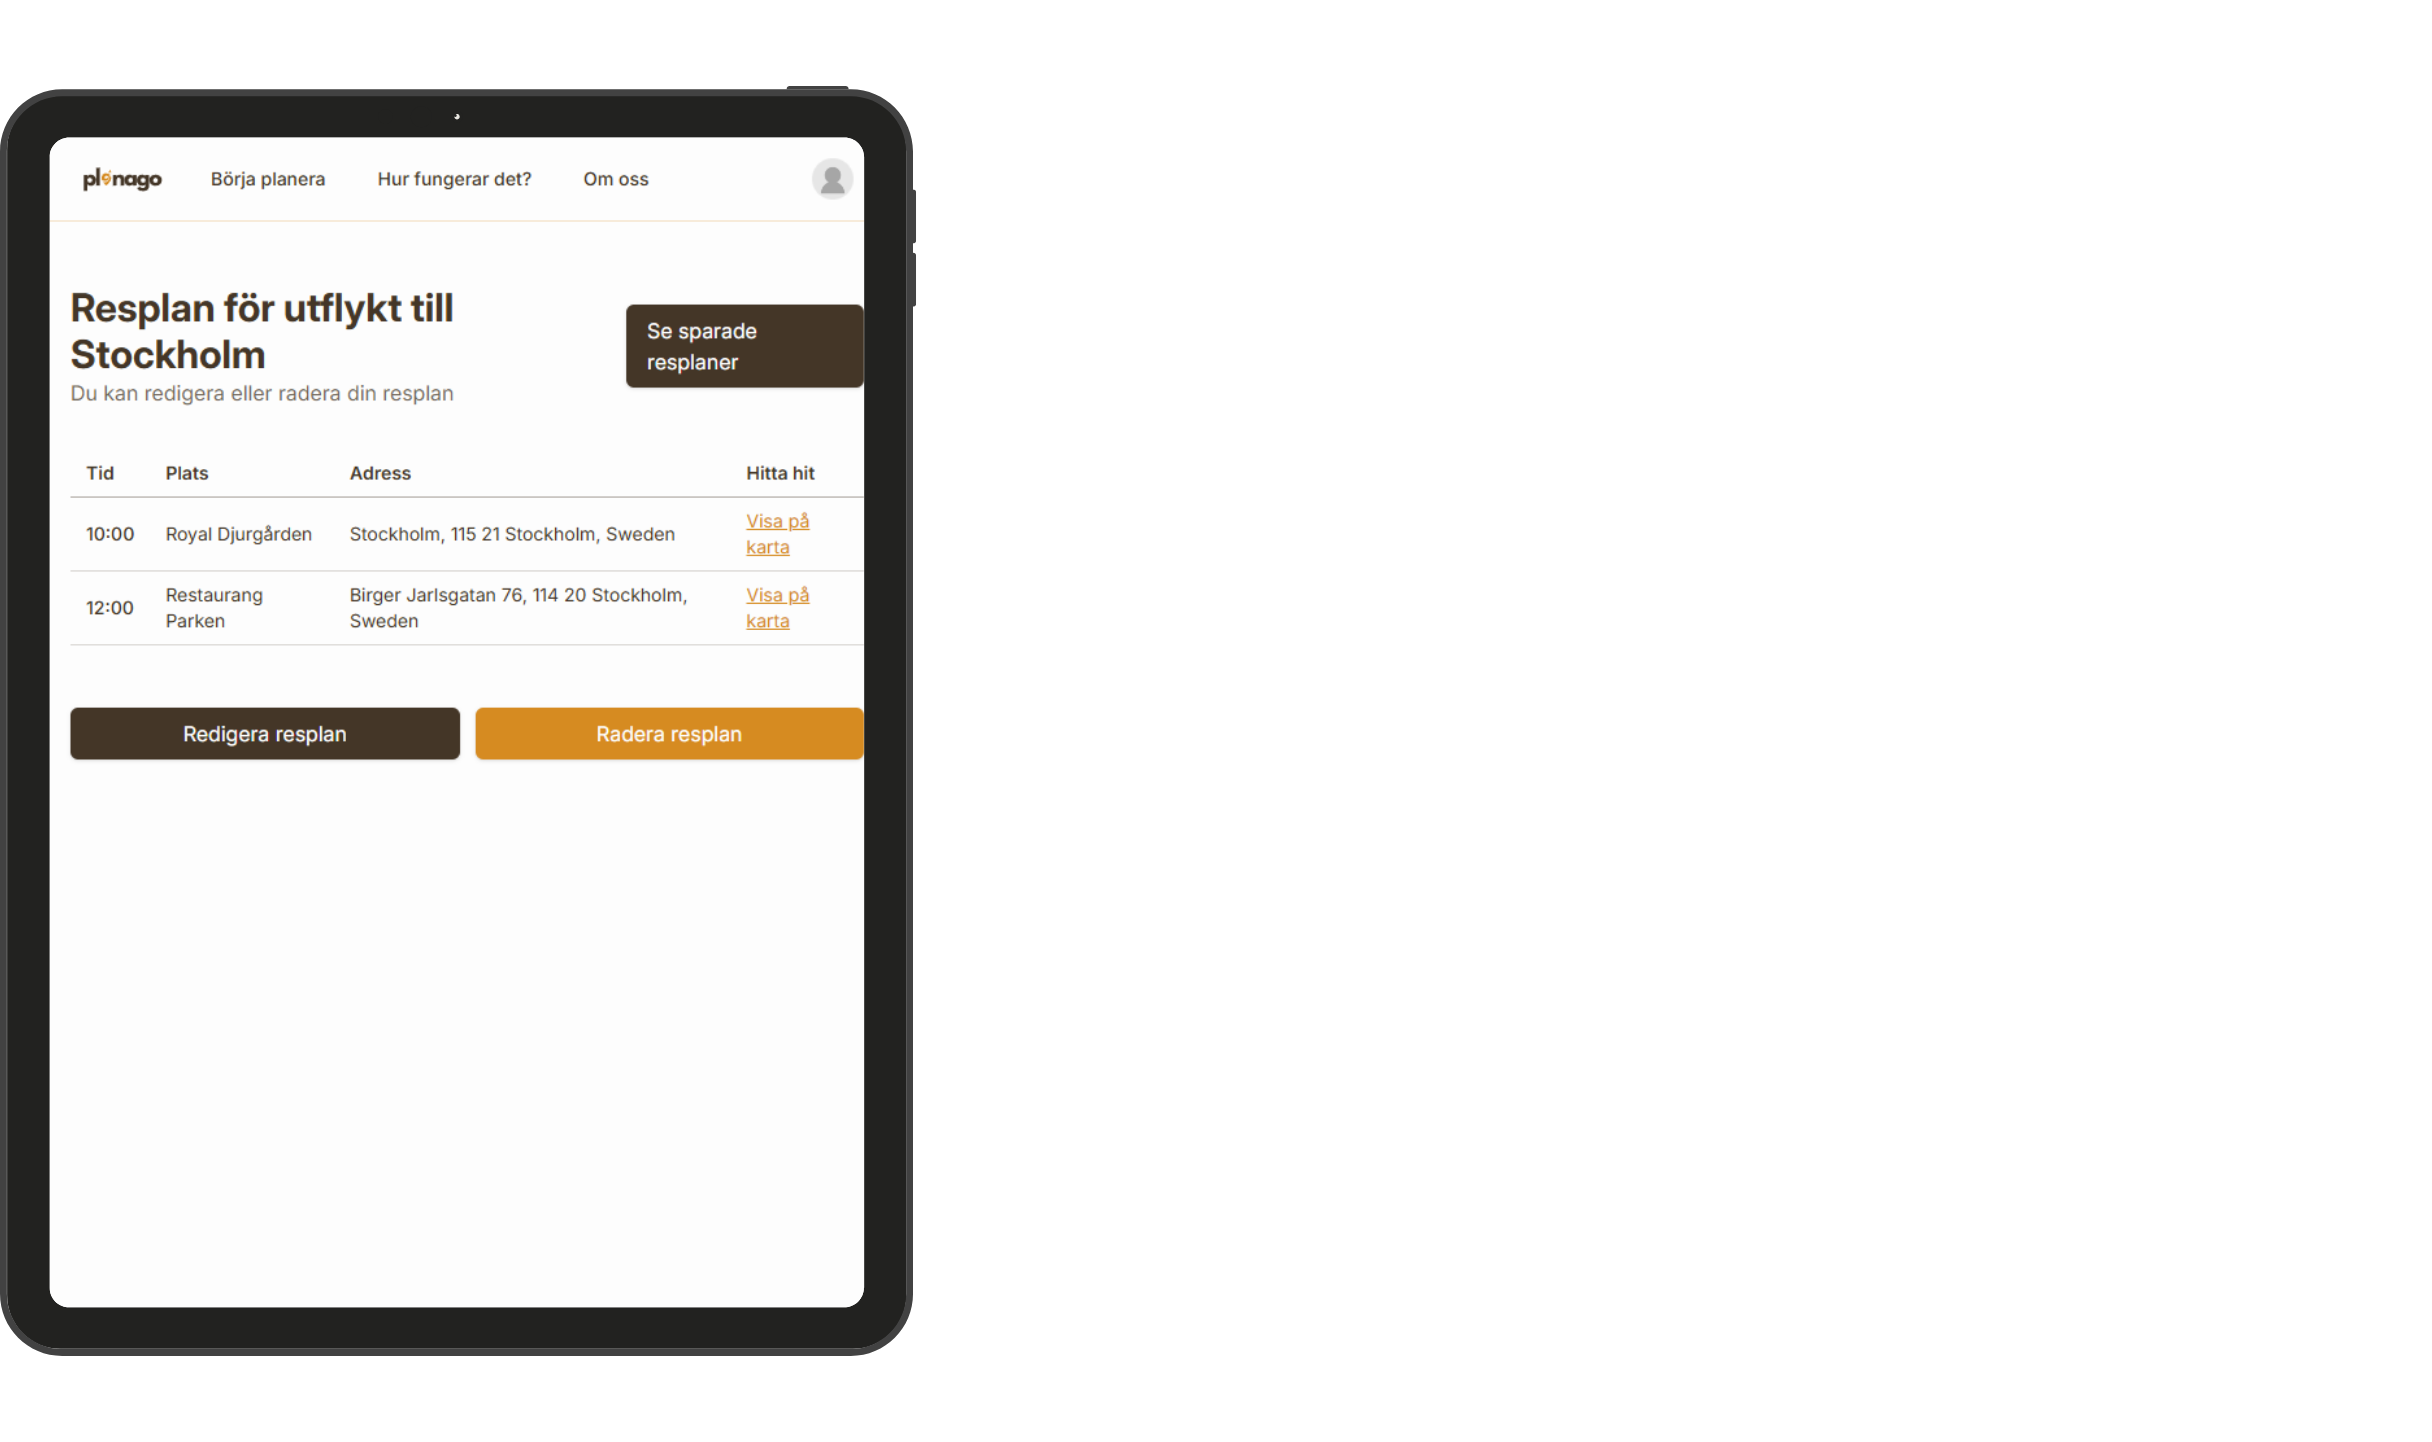
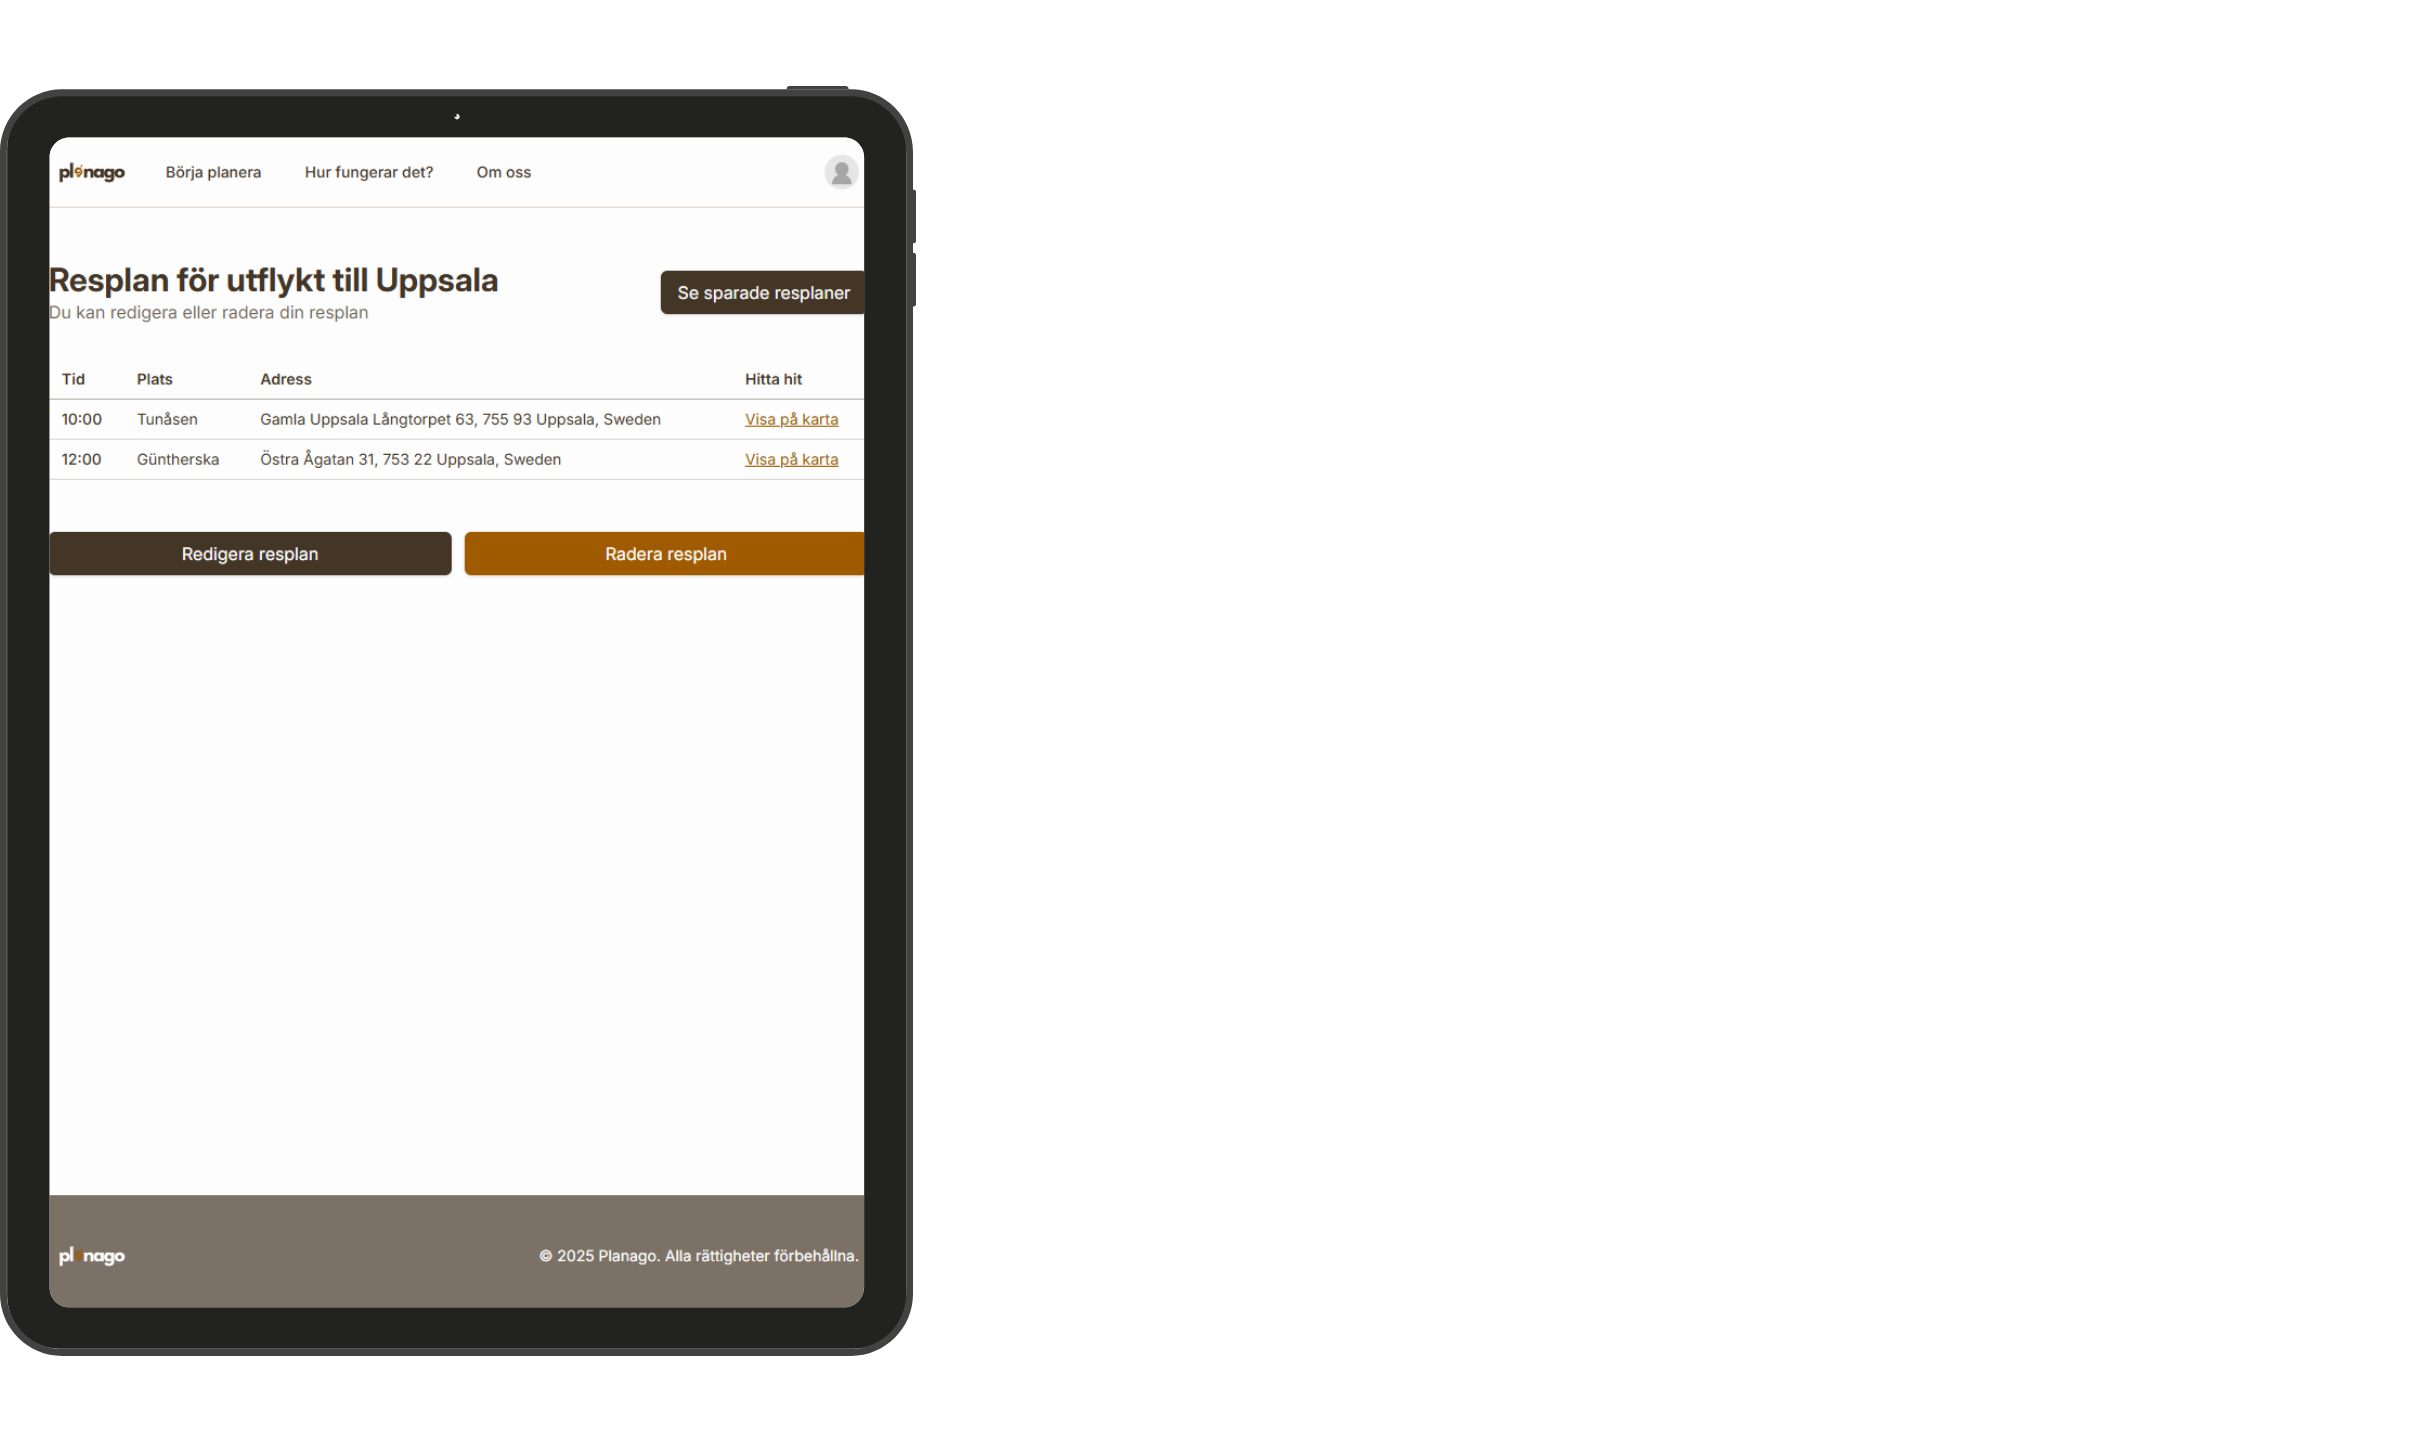
EP-27 <changes after lighthouse check for accessibility>

diff --git a/planago/app/routes/AccountSettings.tsx b/planago/app/routes/AccountSettings.tsx
@@ -86,7 +86,7 @@ export default function AccountSettings({
   }, [actionData]);
 
   return (
-    <div className="min-h-screen bg-background px-4 py-12">
+    <main className="min-h-screen bg-background px-4 py-12">
       <div className="mx-auto max-w-5xl space-y-12">
         {actionData?.error && (
           <div className="mt-6 p-3 rounded bg-accent/10 text-accent text-sm sm:text-base">
@@ -116,21 +116,30 @@ export default function AccountSettings({
             <Form method="post" className="w-full space-y-4">
               <input type="hidden" name="intent" value="updateName" />
               <div>
-                <label className="block text-sm font-medium text-primary">
+                <label
+                  htmlFor="name"
+                  className="block text-sm font-medium text-primary"
+                >
                   Namn
                 </label>
                 <input
+                  id="name"
                   type="text"
                   name="name"
                   defaultValue={user.name}
                   className="mt-1 w-full rounded-md border border-primary/30 px-3 py-2"
                 />
               </div>
+
               <div>
-                <label className="block text-sm font-medium text-primary">
+                <label
+                  htmlFor="email"
+                  className="block text-sm font-medium text-primary"
+                >
                   E‑postadress
                 </label>
                 <input
+                  id="email"
                   type="email"
                   value={user.email}
                   className="mt-1 w-full rounded-md border border-primary/30 px-3 py-2"
@@ -278,6 +287,6 @@ export default function AccountSettings({
           </div>
         </div>
       </div>
-    </div>
+    </main>
   );
 }

diff --git a/planago/app/routes/HowToUse.tsx b/planago/app/routes/HowToUse.tsx
@@ -2,7 +2,7 @@ import img from "../assets/how-to-use-img.png";
 
 export default function HowToUse() {
   return (
-    <div className="min-h-screen bg-background flex flex-col justify-center items-center px-4 py-12">
+    <main className="min-h-screen bg-background flex flex-col justify-center items-center px-4 py-12">
       <div className="mx-auto max-w-7xl px-6 lg:px-8">
         <div className="mx-auto grid max-w-2xl grid-cols-1 gap-x-8 gap-y-16 sm:gap-y-20 lg:mx-0 lg:max-w-none lg:grid-cols-2">
           <div className="lg:pt-4 lg:pr-8">
@@ -91,6 +91,6 @@ export default function HowToUse() {
           </div>
         </div>
       </div>
-    </div>
+    </main>
   );
 }

diff --git a/planago/app/routes/About.tsx b/planago/app/routes/About.tsx
@@ -2,7 +2,7 @@ import img from "../assets/about-img.png";
 
 export default function About() {
   return (
-    <div className="min-h-screen bg-background flex flex-col justify-center items-center px-4 py-12">
+    <main className="min-h-screen bg-background flex flex-col justify-center items-center px-4 py-12">
       <div className="mx-auto max-w-7xl px-6 lg:px-8">
         <div className="mx-auto grid max-w-2xl grid-cols-1 gap-x-8 gap-y-16 sm:gap-y-20 lg:mx-0 lg:max-w-none lg:grid-cols-2">
           <div className="lg:pt-4 lg:pr-8">
@@ -39,6 +39,6 @@ export default function About() {
           </div>
         </div>
       </div>
-    </div>
+    </main>
   );
 }

diff --git a/planago/app/routes/home.tsx b/planago/app/routes/home.tsx
@@ -2,7 +2,7 @@ import img from "../assets/home-img.png";
 
 export default function Home() {
   return (
-    <div className="min-h-screen flex flex-col justify-center items-center px-4 py-12">
+    <main className="min-h-screen flex flex-col justify-center items-center px-4 py-12">
       <div className="pointer-events-none absolute inset-0 z-0 overflow-hidden blur-2xl transform-gpu">
         <div
           style={{
@@ -64,6 +64,6 @@ export default function Home() {
           className="absolute left-1/2 bottom-0 h-[36rem] w-[72rem] -translate-x-1/2 bg-gradient-to-tr from-primary to-accent opacity-20"
         />
       </div>
-    </div>
+    </main>
   );
 }

diff --git a/planago/app/routes/SignIn.tsx b/planago/app/routes/SignIn.tsx
@@ -2,7 +2,7 @@ import { authClient } from "~/shared/auth/client";
 
 export default function SignIn() {
   return (
-    <div className="flex min-h-screen flex-col justify-center items-center px-6 py-12">
+    <main className="flex min-h-screen flex-col justify-center items-center px-6 py-12">
       <div className="sm:mx-auto sm:w-full sm:max-w-md">
         <h1 className="text-center text-2xl sm:text-3xl font-bold tracking-tight text-primary">
           Logga in
@@ -58,6 +58,6 @@ export default function SignIn() {
           </button>
         </div>
       </div>
-    </div>
+    </main>
   );
 }

diff --git a/planago/app/routes/AccountSavedPlans.tsx b/planago/app/routes/AccountSavedPlans.tsx
@@ -54,7 +54,7 @@ export default function AccountSavedPlans({
   const { plans } = loaderData;
 
   return (
-    <div className="min-h-screen bg-background px-4 py-12">
+    <main className="min-h-screen bg-background px-4 py-12">
       <div className="mx-auto max-w-5xl space-y-12">
         <div className="flex flex-col sm:flex-row justify-between items-start sm:items-center mb-8">
           <div>
@@ -176,6 +176,6 @@ export default function AccountSavedPlans({
           </div>
         )}
       </div>
-    </div>
+    </main>
   );
 }

diff --git a/planago/app/routes/PlanagoPlan.tsx b/planago/app/routes/PlanagoPlan.tsx
@@ -67,7 +67,7 @@ export default function PlanagoPlan({
   const navigate = useNavigate();
 
   return (
-    <div className="min-h-screen bg-background px-4 py-12">
+    <main className="min-h-screen bg-background px-4 py-12">
       <div className="mx-auto max-w-5xl space-y-12">
         <div className="flex flex-col sm:flex-row justify-between items-start sm:items-center mb-8">
           <div>
@@ -174,6 +174,6 @@ export default function PlanagoPlan({
           </div>
         )}
       </div>
-    </div>
+    </main>
   );
 }

diff --git a/planago/app/root.tsx b/planago/app/root.tsx
@@ -56,6 +56,7 @@ export function Layout({ children }: { children: React.ReactNode }) {
       <head>
         <meta charSet="utf-8" />
         <meta name="viewport" content="width=device-width, initial-scale=1" />
+        <title>Planago</title>
         <Meta />
         <Links />
       </head>

diff --git a/planago/app/app.css b/planago/app/app.css
@@ -27,7 +27,7 @@
   --primary-foreground: #fdfdfd;
   --secondary: #f8f2de;
   --secondary-foreground: #0f0f0f;
-  --accent: #d68b21;
+  --accent: #a05a00;
   --accent-foreground: #fdfdfd;
 
   --border: #e5e7eb;
